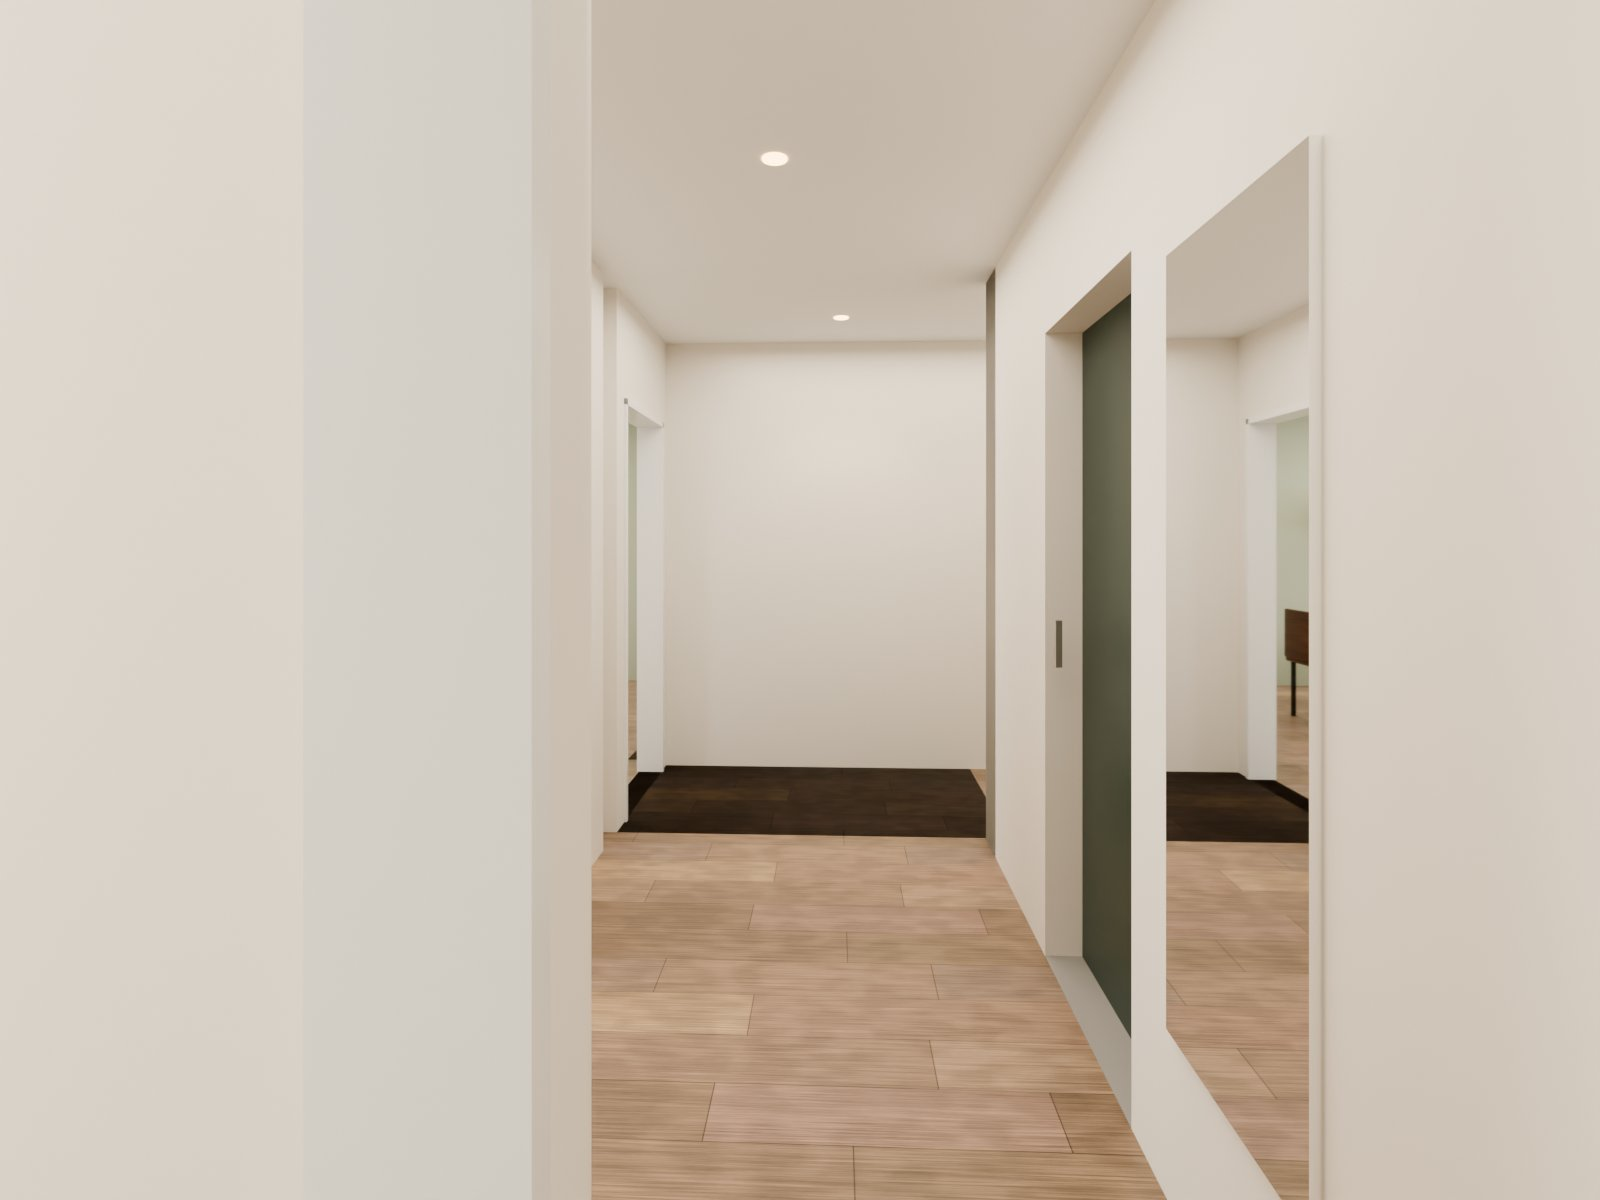
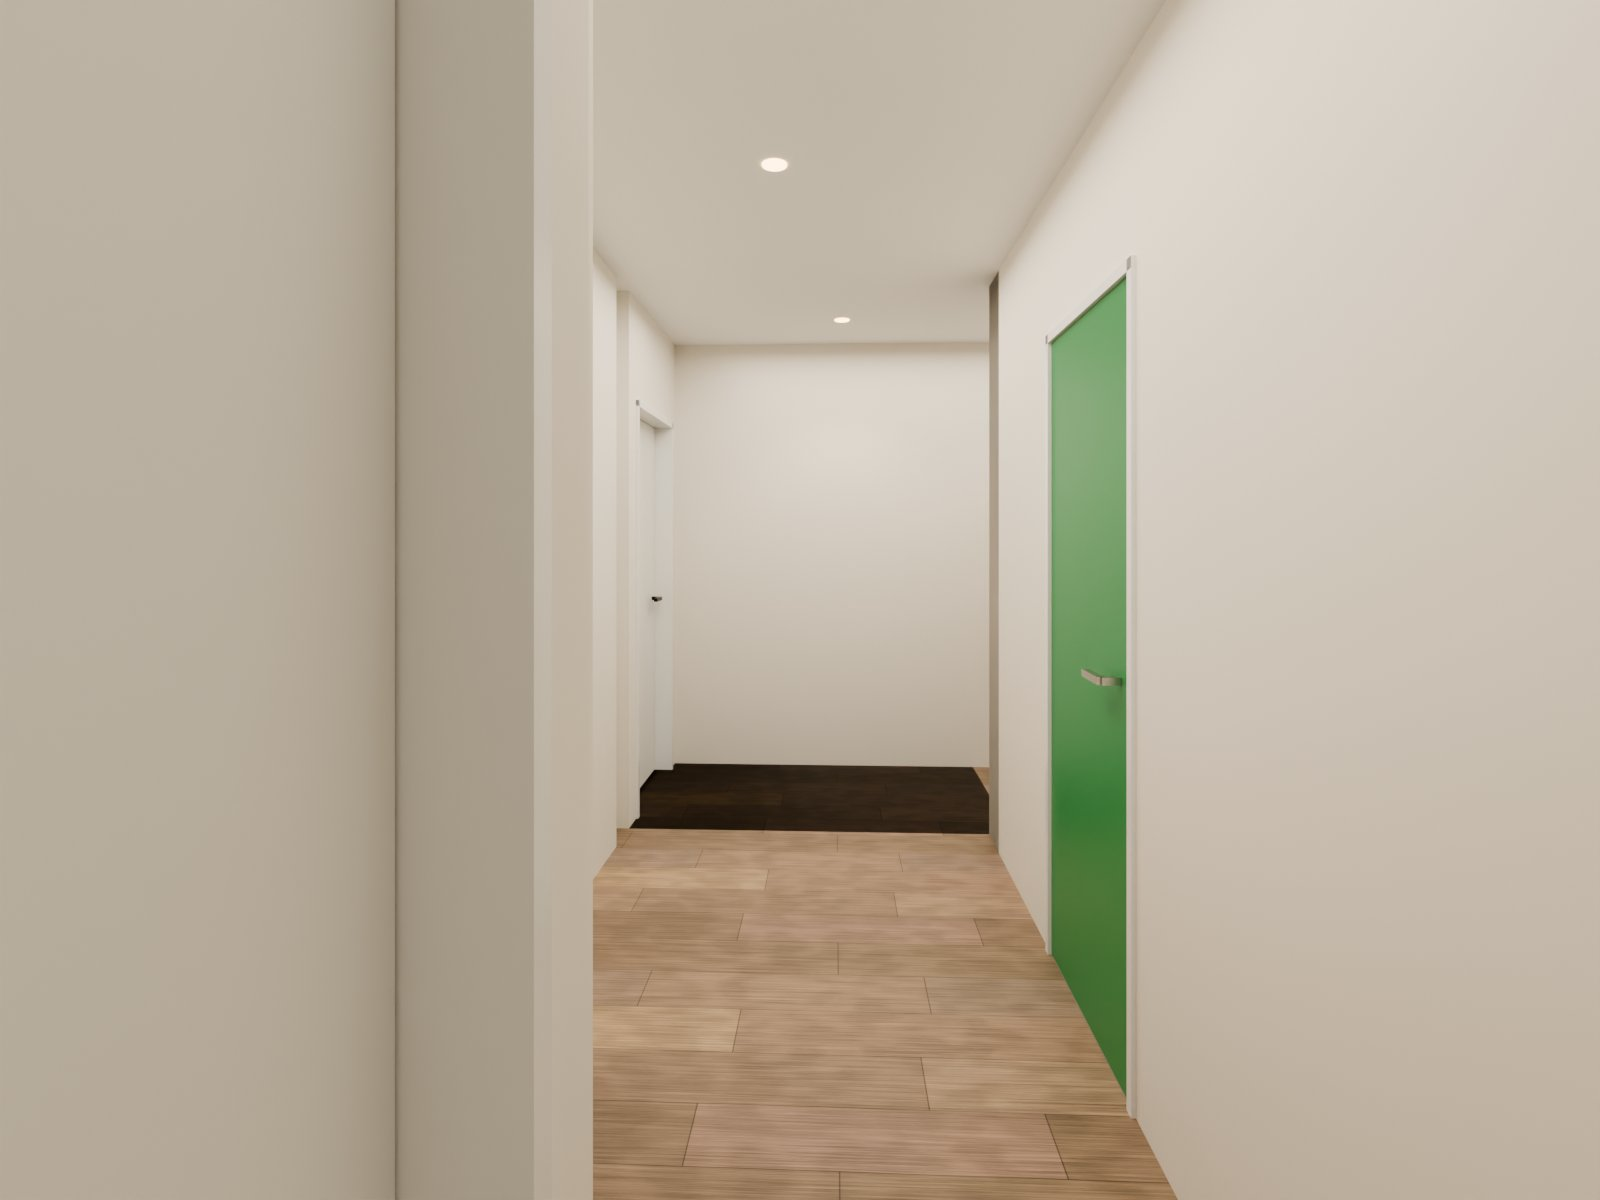
Gallery: re-rendered at the measured room sizes (doors, landing, coats, ivory tiles, cat shelves, new site and sun)

diff --git a/gallery/index.html b/gallery/index.html
@@ -103,7 +103,7 @@ figcaption { display: grid; gap: 2px; }
     <h1>Liendenhof Renders</h1>
     <p class="lede">Second pass of the renovated apartment, rendered in Blender (Cycles) from the floor plan. It has your kitchen, bathroom and floor changes, a study instead of the second bedroom, and new lighting and cameras throughout.</p>
     <div class="meta">
-      <span>Rendered <b>8 Oct 2026</b></span><span>Ceiling <b>2.60 m</b></span><span>Frames <b>1600 × 1200</b></span><span>Cycles <b>384 samples</b></span>
+      <span>Rendered <b>10 Oct 2026</b></span><span>Ceiling <b>2.60 m</b></span><span>Frames <b>1600 × 1200</b></span><span>Cycles <b>384 samples</b></span>
       <a class="walk" href="../">Walk through it in 3D →</a>
     </div>
   </header>
@@ -128,14 +128,14 @@ figcaption { display: grid; gap: 2px; }
       </figure>
       <figure>
         <button class="shot tall" data-view="toilet" data-cap="Toilet"><img data-view="toilet" src="renders/toilet_rio_turquoise.jpg" alt="Toilet with half-height tiles, wall-hung WC and a small fountain basin" loading="lazy"></button>
-        <figcaption><span class="room-name">Toilet</span><span class="dims">~1.7 × 0.9 m · same tile</span></figcaption>
+        <figcaption><span class="room-name">Toilet</span><span class="dims">1.78 × 0.92 m · same tile</span></figcaption>
       </figure>
     </div>
     <div class="notes">
       <p>The toilet uses the same tile as the shower, so the two always match. The glass panel now stands on the sink side, and the rain head, hand shower and thermostat are on the mirror wall. You walk into the shower from the radiator side.</p>
       <dl class="spec">
         <dt>Wall tile</dt><dd>Glazed, ~6.5 × 25 cm, light-grey grout, in shower and toilet</dd>
-        <dt>Floor + walls</dt><dd>Plain sandy 60 × 60 cm tiles: bathroom and toilet floors, and every bathroom wall outside the shower</dd>
+        <dt>Floor + walls</dt><dd>Light ivory 60 × 60 cm tiles: bathroom and toilet floors, and every bathroom wall outside the shower</dd>
         <dt>South wall</dt><dd>Washer column in the corner by the door, towel radiator next to it</dd>
       </dl>
     </div>
@@ -146,17 +146,17 @@ figcaption { display: grid; gap: 2px; }
     <div class="grid">
       <figure class="room feature">
         <button class="shot" data-src="renders/living.jpg" data-cap="Woonkamer"><img src="renders/living.jpg" alt="Living room from the corridor door: dining table in front, sofa, coffee table and floor lamp towards the window, TV wall and the opening to the study on the left" loading="lazy"></button>
-        <figcaption><span class="room-name">Living room <span>· Woonkamer</span></span><span class="dims">4.03 × ~6.10 m · 150 cm opening to the study · openable balcony door</span></figcaption>
+        <figcaption><span class="room-name">Living room <span>· Woonkamer</span></span><span class="dims">4.03 × 6.21 m (8.11 m with the kitchen) · japandi sliding door to the study</span></figcaption>
         <span class="room-note">The tabby on the sofa is one of the two cats.</span>
       </figure>
       <figure class="room">
         <button class="shot" data-src="renders/kitchen.jpg" data-cap="Keuken"><img src="renders/kitchen.jpg" alt="U-shaped kitchen with greige fronts, tall oven and fridge column on the left and upper cabinets on both runs" loading="lazy"></button>
-        <figcaption><span class="room-name">Kitchen <span>· Keuken</span></span><span class="dims">~2.8 × 2.1 m · solid corner wall next to the oven</span></figcaption>
+        <figcaption><span class="room-name">Kitchen <span>· Keuken</span></span><span class="dims">2.81 × 1.90 m · solid corner wall next to the oven</span></figcaption>
         <span class="room-note">The corner next to the oven is solid wall from floor to ceiling, around the fixed downpipe. The counter and upper cabinets stop against it.</span>
       </figure>
       <figure class="room">
         <button class="shot" data-src="renders/study.jpg" data-cap="Werkkamer"><img src="renders/study.jpg" alt="Study with a long oak desk, ultrawide monitor and PC, shelves, and a cat tree by the window" loading="lazy"></button>
-        <figcaption><span class="room-name">Study <span>· Werkkamer</span></span><span class="dims">2.82 m wide · 240 × 80 cm desk · 34″ ultrawide</span></figcaption>
+        <figcaption><span class="room-name">Study <span>· Werkkamer</span></span><span class="dims">2.82 × 4.38 m · 240 × 80 cm desk · 34″ ultrawide</span></figcaption>
       </figure>
       <figure class="room feature">
         <button class="shot" data-src="renders/dining.jpg" data-cap="Eethoek"><img src="renders/dining.jpg" alt="Looking from the window end past the sofa and coffee table to the oak dining table for four and a black pendant, with the kitchen behind it" loading="lazy"></button>
@@ -165,11 +165,11 @@ figcaption { display: grid; gap: 2px; }
       </figure>
       <figure class="room">
         <button class="shot" data-src="renders/bedroom1.jpg" data-cap="Slaapkamer"><img src="renders/bedroom1.jpg" alt="Bedroom with a double bed and nightstands" loading="lazy"></button>
-        <figcaption><span class="room-name">Bedroom <span>· Slaapkamer</span></span><span class="dims">2.82 m wide</span></figcaption>
+        <figcaption><span class="room-name">Bedroom <span>· Slaapkamer</span></span><span class="dims">2.82 × 4.30 m</span></figcaption>
       </figure>
       <figure class="room">
         <button class="shot" data-src="renders/hall.jpg" data-cap="Entree"><img src="renders/hall.jpg" alt="Hallway looking east towards the corridor" loading="lazy"></button>
-        <figcaption><span class="room-name">Hall <span>· Entree</span></span><span class="dims">along the south side</span></figcaption>
+        <figcaption><span class="room-name">Hall <span>· Entree</span></span><span class="dims">5.23 × 1.72 m · coats on the rail</span></figcaption>
       </figure>
     </div>
   </section>
@@ -178,19 +178,13 @@ figcaption { display: grid; gap: 2px; }
     <div>
       <h3>Changed in this round</h3>
       <ul>
-        <li>The real surroundings are outside the windows: the neighbouring blocks from the 3D building register, the trees from the city's tree register and an aerial photo. The balcony matches your photos: brick, grey pavers and a tinted glass railing.</li>
-        <li>The window frames are white, like the real ones, and all renders are half a stop darker.</li>
-        <li>The dining table moved from the window to the kitchen end: a 120 × 80 cm oak table for four with a pendant above it. The lounge moved half a metre towards the window, with the floor lamp at the sofa's south end.</li>
-        <li>The walk-through now uses lighting baked in Cycles, so it looks much closer to these renders.</li>
-        <li>The cats walk on four legs, meow for real, follow you around now and then, purr when you click them, and nap on the bed, the sofa or the cat tree.</li>
-        <li>The kitchen corner next to the oven is now solid wall from floor to ceiling. The counter ends at it, and the upper cabinets now continue over the sink.</li>
-        <li>The bathroom has the washer column in the corner, the radiator next to it, glass and shower head on the sink side, and plain sandy 60 × 60 tiles on the floor and on the walls outside the shower. The bathroom and toilet are lit more softly.</li>
-        <li>The toilet tiles match the bathroom.</li>
-        <li>The floor is now the greyed mid-brown oak from your photo, in long planks.</li>
-        <li>The study has no balcony door. It has a big desk with your PC, an ultrawide showing the stream, and a cat tree.</li>
-        <li>There's a real door on the storage cupboard. The balcony door opens in the walk-through.</li>
-        <li>Two low-poly cats: a brown tabby on the sofa and a ginger on the cat tree.</li>
-        <li>Lighting is fixed, so ceilings are no longer blown out. Cameras are level with natural lenses, frames are landscape, and the plants are new.</li>
+        <li>Every room has the inside measurements of the measured floor plan: bedroom 2.82 × 4.30, study 2.82 × 4.38, living room and kitchen 4.03 × 8.11 (kitchen 2.81 × 1.90), bathroom 2.81 × 1.82 and hall 1.72 deep.</li>
+        <li>Doors on every room, including the toilet and bathroom, and a japandi sliding door in the opening between the study and the living room.</li>
+        <li>The flat is placed at Liendenhof 234: the block across the street is parallel to the balcony, and the sun comes from the real direction.</li>
+        <li>The shared landing outside the front door is built from your photo, with the green front door, the lift and the doorbell.</li>
+        <li>Real jackets on the coat rail, and the hall mirror is gone.</li>
+        <li>Bathroom and toilet floors and walls in light ivory 60 × 60 tiles (sand and warm grey are options in the walk-through).</li>
+        <li>Oak cat shelves: a climbing route to a walkway on the sage living-room wall, and two shelves in the study by the cat tree.</li>
       </ul>
     </div>
     <div class="stack">
@@ -204,9 +198,9 @@ figcaption { display: grid; gap: 2px; }
       <div>
         <h3>In the walk-through</h3>
         <ul>
-          <li>Press <b>E</b> near a door to open it, and walk out onto the balcony.</li>
+          <li>Look at a door and press <b>E</b> to open it. Ring the doorbell from the landing.</li>
           <li>Press <b>P</b> or use the paint panel, then click a wall to repaint it.</li>
-          <li>The tile buttons change the shower and toilet together.</li>
+          <li>The Finishes panel switches paint, tiles and floor. Press <b>L</b> for evening, <b>M</b> to move furniture.</li>
           <li>Click a cat to pet it.</li>
         </ul>
       </div>
